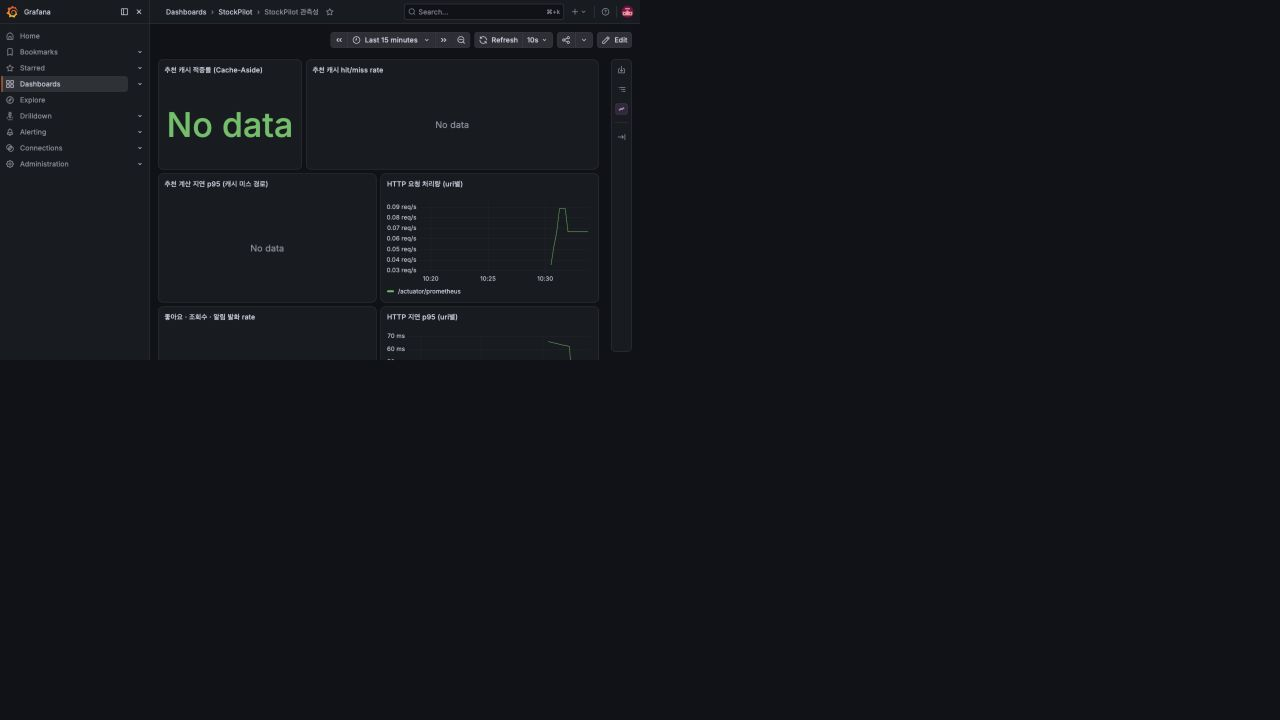
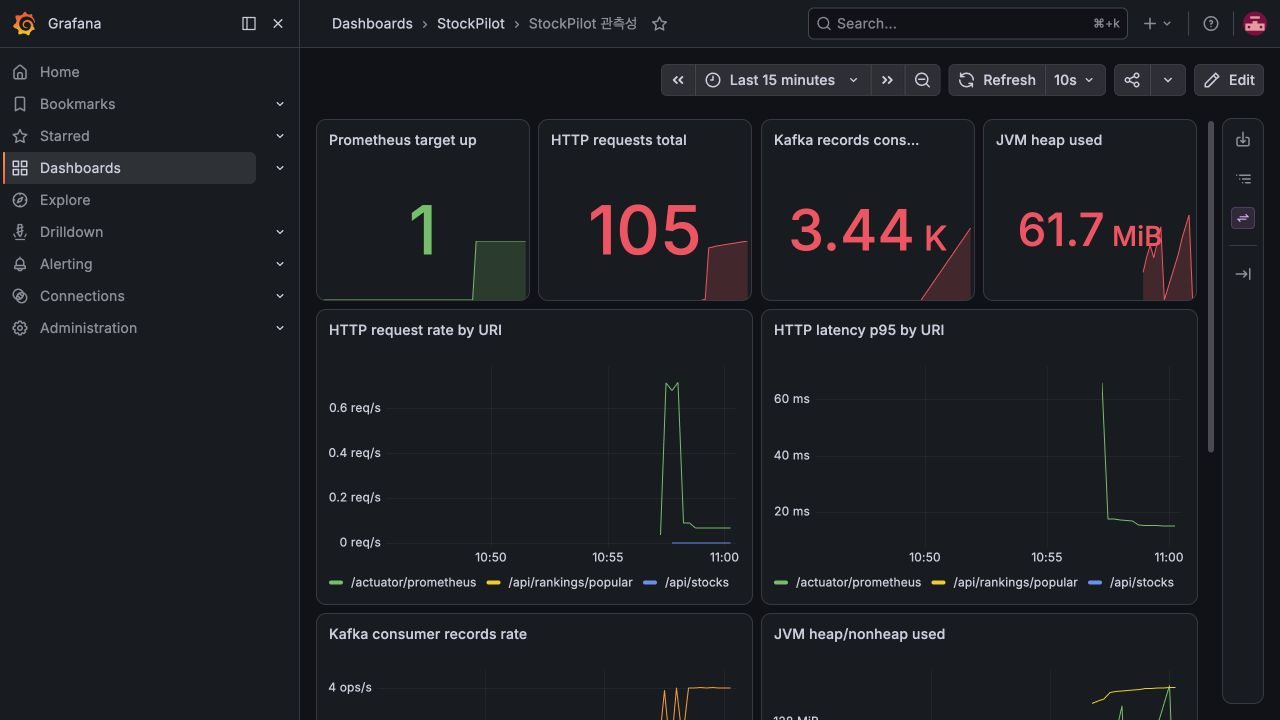
docs: finalize observability artifacts for submission

diff --git a/README.md b/README.md
@@ -3,7 +3,7 @@
 외부 시세 API의 호출 제한을 겪으며 REST 폴링 구조의 한계를 확인하고, WebSocket 수집과 Kafka 기반 처리 흐름으로 전환한 실시간 데이터 처리 학습 프로젝트입니다.
 
 ![release](https://img.shields.io/badge/release-v1.2.0-blue)
-![tests](https://img.shields.io/badge/tests-149%20green-success)
+![tests](https://img.shields.io/badge/tests-153%20green-success)
 ![java](https://img.shields.io/badge/Java-17-orange)
 ![springboot](https://img.shields.io/badge/Spring%20Boot-3.5-6DB33F)
 
@@ -145,7 +145,7 @@ flowchart LR
 - `http://localhost:8080/actuator/prometheus`에서 Prometheus 포맷 메트릭이 `200 OK`로 노출됨
 - Prometheus `up` 쿼리에서 `stock-pilot (host.docker.internal:8080)` target이 `1`로 수집됨
 - Prometheus query API로 `jvm_memory_used_bytes`, `http_server_requests_seconds_count`, `kafka_consumer_fetch_manager_records_consumed_total` 수집 여부 확인
-- Grafana에 `StockPilot 관측성` 대시보드가 프로비저닝되고, HTTP 요청 처리량/지연 패널이 Prometheus 데이터를 조회하는 것 확인
+- Grafana에 `StockPilot 관측성` 대시보드가 프로비저닝되고, target up/JVM/HTTP/Kafka consumer 패널이 Prometheus 데이터를 조회하는 것 확인
 
 대시보드 산출물:
 
@@ -153,7 +153,7 @@ flowchart LR
 - 로컬 확인 캡처: [`docs/assets/grafana-dashboard.jpg`](docs/assets/grafana-dashboard.jpg)
 - 원본 프로비저닝 파일: [`monitoring/grafana/dashboards/stockpilot.json`](monitoring/grafana/dashboards/stockpilot.json)
 
-추천 캐시 hit/miss, 좋아요, 조회수, 알림 발화 같은 커스텀 비즈니스 메트릭은 관련 API 요청이 발생해야 값이 채워집니다. 이번 확인에서는 메트릭 노출과 수집 가능 여부, 기본 JVM/HTTP/Kafka consumer 메트릭 수집, Grafana 대시보드 로딩을 확인했습니다.
+추천 캐시 hit/miss, 좋아요, 조회수, 알림 발화 같은 커스텀 비즈니스 메트릭은 관련 API 요청이 발생해야 값이 채워집니다. 이번 확인에서는 메트릭 노출과 수집 가능 여부, JVM/HTTP/Kafka consumer 메트릭 수집, Grafana 대시보드 로딩을 확인했습니다.
 
 ---
 
